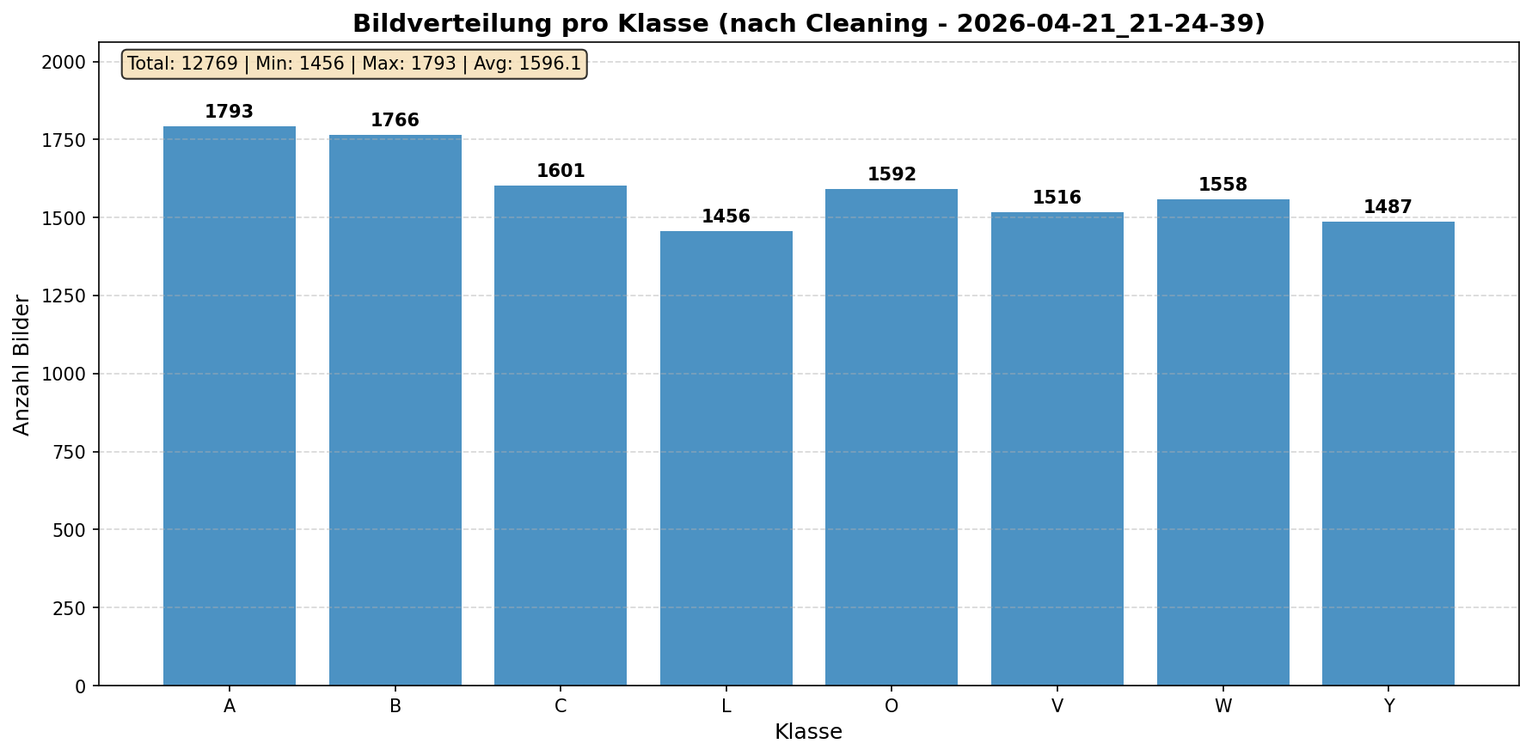
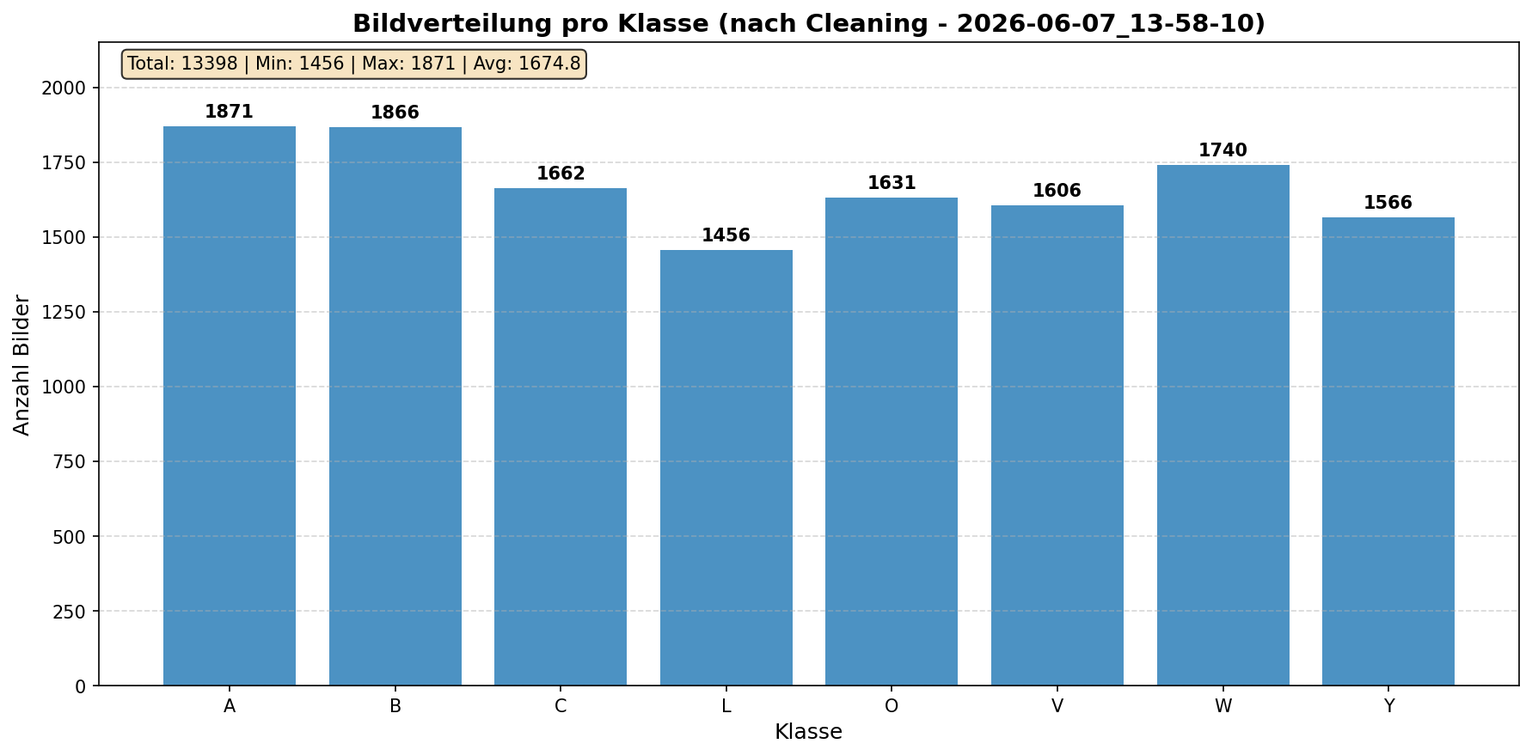
finale abgabe

diff --git a/report.md b/report.md
@@ -1,5 +1,24 @@
 # Wissenschaftlicher Projektbericht: Erkennung von Gebärdensprachen-Buchstaben mit Machine Learning
 
+## Projektdaten
+
+| Feld | Angabe |
+|---|---|
+| Modul | Machine Learning |
+| Semester | SoSe 2026 |
+| Dozent | Nicola Fanton |
+| Projekttitel | Sign Language Recognition / ASL-Alphabet-Erkennung |
+| Abgabedatum | 07.06.2026 |
+
+---
+
+## Gruppenmitglieder
+
+| Name | Matrikelnummer | Rolle im Projekt |
+|---|---:|---|
+| Ervin Omerovic | 209641 | Technische Umsetzung der Datenpipeline, Projektstruktur, Integration der Datensätze, Erweiterung der Datenbasis durch eigene Webcam-Aufnahmen, Modelltraining, Evaluation, Webcam-Anwendung, README und Bericht |
+| Delil Yilmaz | 204114 | Recherche und Auswahl geeigneter Datensätze, Unterstützung bei Datenstruktur und Datenaufbereitung, Kontrolle einzelner Skripte zur Datenaufbereitung, Prüfung von Trainingskurven und Confusion Matrix, Bewertung der Fehlklassifikationen, Berichtskontrolle |
+
 ## 1. Einleitung und Zieldefinition
 
 Die automatische Erkennung von Gebärdensprachen-Buchstaben ist ein relevantes Anwendungsfeld des maschinellen Lernens, da sie die digitale Unterstützung der Kommunikation mit Gebärdensprache ermöglichen kann. In diesem Projekt wird untersucht, wie ausgewählte statische Buchstaben der American Sign Language (ASL) mithilfe eines bildbasierten Machine-Learning-Modells erkannt werden können. Der Fokus liegt dabei auf acht ausgewählten Klassen: **A, B, C, L, V, W, O und Y**.
@@ -59,6 +78,8 @@ Das Projekt verwendet drei externe Datensätze:
 
 Aus diesen Datensätzen werden ausschließlich die acht Klassen **A, B, C, L, V, W, O und Y** verwendet. Die Auswahl beschränkt den Projektumfang bewusst, damit Training, Evaluation und Webcam-Demo innerhalb des Modulprojekts realistisch umgesetzt werden können.
 
+Zusätzlich zu den externen Datensätzen wurde die Datenbasis durch eigene Webcam-Aufnahmen erweitert. Dafür wurden pro Buchstabe ungefähr **150 bis 200 zusätzliche Bilder** aufgenommen. Diese eigenen Bilder dienen dazu, das Modell stärker an realistische Aufnahmebedingungen der späteren Webcam-Anwendung anzupassen. Während die externen Datensätze eine breite Grundlage für das Training liefern, bilden die eigenen Aufnahmen typische Bedingungen der praktischen Nutzung ab, etwa Kameraqualität, Beleuchtung, Handposition und Hintergrund.
+
 ### 3.2 Datenstruktur
 
 Die Projektstruktur trennt Rohdaten, bereinigte Daten und externe Testdaten:
@@ -82,6 +103,10 @@ Die Bereinigung erfolgt mit dem Skript `clean_dataset.py`. Dabei werden unter an
 
 Die Aufbereitung soll sicherstellen, dass das Modell nicht nur auf sehr einheitliche Trainingsbilder reagiert, sondern auch mit leichten Variationen umgehen kann.
 
+Die eigenen Webcam-Bilder wurden in die bestehende Klassenstruktur integriert und anschließend ebenfalls durch die Datenbereinigung verarbeitet. Dadurch werden diese Aufnahmen nicht separat behandelt, sondern gemeinsam mit den externen Trainingsdaten in die Pipeline aufgenommen. Der Vorteil besteht darin, dass das Modell nicht nur auf kuratierte Datensatzbilder trainiert wird, sondern auch Beispiele aus der tatsächlichen Einsatzumgebung sieht. Dies ist besonders wichtig, da bei der Live-Erkennung über die Webcam andere Bedingungen auftreten können als in den externen Datensätzen.
+
+Für die Aufnahme der eigenen Bilder wurde ein Webcam-Capture-Ansatz genutzt. Dabei wird die jeweilige Handgeste vor der Kamera gezeigt und der relevante Bildbereich als Trainingsbild gespeichert. Dieses Vorgehen eignet sich besonders, um zusätzliche Beispiele für schwierige oder häufig verwechselte Klassen aufzunehmen und dadurch die Datenbasis gezielt zu erweitern.
+
 ## 4. Beschreibung der Methodik
 
 ### 4.1 Trainingspipeline
@@ -89,12 +114,12 @@ Die Aufbereitung soll sicherstellen, dass das Modell nicht nur auf sehr einheitl
 Die ursprüngliche Pipeline wurde so angepasst, dass die Daten zunächst bereinigt und erst danach für Training und Validierung genutzt werden:
 
 ```text
-data_raw/ → clean_dataset.py → data_cleaned/ → Training und Validierung
-                                      ↓
-                              external_test/ → finale Evaluation
+externe Datensätze + eigene Webcam-Aufnahmen → data_raw/ → clean_dataset.py → data_cleaned/ → Training und Validierung
+                                                                                              ↓
+                                                                                      external_test/ → finale Evaluation
 ```
 
-Diese Struktur wurde gewählt, weil die Datenqualität ein zentraler Faktor für die spätere Modellleistung ist. Durch die vorgelagerte Bereinigung wird offensichtliches Rauschen reduziert, bevor das Modell trainiert wird.
+Diese Struktur wurde gewählt, weil die Datenqualität ein zentraler Faktor für die spätere Modellleistung ist. Durch die vorgelagerte Bereinigung wird offensichtliches Rauschen reduziert, bevor das Modell trainiert wird. Die zusätzlichen eigenen Webcam-Aufnahmen erweitern die Datenbasis um Beispiele aus der späteren Anwendungssituation und sollen dadurch die Robustheit bei der Live-Erkennung verbessern.
 
 ### 4.2 Modellwahl
 
@@ -112,6 +137,8 @@ Die wichtigsten Entscheidungen im Projekt lassen sich wie folgt begründen:
 | Datenbereinigung vor dem Training | Reduktion von Duplikaten, Unschärfe und beschädigten Dateien |
 | Externe Testdaten | Realistischere Bewertung der Generalisierungsfähigkeit |
 | Webcam-Demo | Praktische Demonstration der Anwendbarkeit des Modells |
+| Eigene Webcam-Aufnahmen | Ergänzung der externen Datensätze um realistische Beispiele aus der späteren Anwendungssituation |
+| Capture-Ansatz für eigene Bilder | Gezielte Aufnahme zusätzlicher Trainingsdaten pro Klasse, insbesondere zur Verbesserung der Praxistauglichkeit |
 
 ### 4.4 Evaluation
 
@@ -127,86 +154,112 @@ Die finale Evaluation erfolgt auf externen Testdaten, die nicht im Training verw
 
 ## 5. Ergebnisse und Erkenntnisse
 
-### 5.1 Übersicht der Evaluationsmetriken (aktuellste Logs)
+In diesem Kapitel werden die zentralen Ergebnisse des Projekts in der Reihenfolge des tatsächlichen Projektablaufs dargestellt. Zunächst wird die Datenbereinigung beschrieben, da sie die Grundlage für das anschließende Training bildet. Danach folgen Trainingsverlauf, externe Evaluation, per-Klasse-Ergebnisse und Confusion Matrix.
 
-Die finale externe Evaluation (neuester Classification Report: `logs/classification_reports/classification_report_2026-06-06_23-17-23.txt`) liefert folgende Gesamtmetriken:
+### 5.1 Datenbereinigung und Datenverteilung
 
-| Metrik | Wert |
+Vor dem Training wurde eine systematische Datenbereinigung durchgeführt. Die aktuellste dokumentierte Cleaning-Session wurde am **07.06.2026 um 13:46:49** durchgeführt. Dabei wurden insgesamt **15.095 Bilder** verarbeitet. Davon wurden **13.398 Bilder** in den bereinigten Datensatz übernommen und **1.697 Bilder** durch die Cleaning-Pipeline entfernt. Die Erfolgsquote der Bereinigung lag damit bei **88,8 %**.
+
+| Kennzahl | Wert |
 |---|---:|
-| Accuracy | 0.9257 |
-| Precision | 0.9281 |
-| Recall | 0.9257 |
-| F1-Score | 0.9259 |
-| Test-Support | 1400 Bilder |
+| Gesamt verarbeitet | 15.095 Bilder |
+| Gespeichert | 13.398 Bilder |
+| Entfernt | 1.697 Bilder |
+| Erfolgsquote | 88,8 % |
+| Blur Threshold | 40,0 |
+| Mindestgröße | 50 Pixel |
+| Deduplizierung | aktiviert |
 
-Die externe Accuracy von 0.9257 zeigt, dass das Modell nun rund 92.6 % der externen Testbilder korrekt klassifiziert. Die leicht verbesserten Werte bei Precision und F1 gegenüber der vorher dokumentierten Evaluation deuten auf eine insgesamt bessere Generalisierung auf das externe Test-Set hin.
-
-### 5.2 Trainingsverlauf (aktuelle Trainingskurven)
-
-![Trainings- und Validierungsverlauf](logs/training_curves/training_curves_2026-06-06_19-45-28.png)
-
-*Abbildung 1: Verlauf von Accuracy und Loss während des Trainings (neueste Kurve: `logs/training_curves/training_curves_2026-06-06_19-45-28.png`).*
-
-Der Trainingsverlauf zeigt eine schnelle Verbesserung in den ersten Epochen und anschließende Stabilisierung auf sehr hohem Niveau. Aus den Epoch-Metriken (`logs/training_metrics/epoch_metrics_2026-06-06_19-45-28.csv`) ergibt sich:
-
-- Maximale Validierungsgenauigkeit (best epoch): 0.9886
-- Validierungsgenauigkeit am Ende der aufgezeichneten Epochen: 0.9883
-- Trainingsgenauigkeit (letzte Epoche): ca. 0.9983
-
-Diese Zahlen zeigen ein starkes Training mit sehr hoher Trainingsgenauigkeit und ebenfalls sehr guter Validierungsleistung (höchste Val-Accuracy ≈ 98.86 %), was auf ein gut konvergiertes Modell hindeutet. Die Differenz zwischen Trainings- und Validierungswerten bleibt gering.
-
-### 5.3 Ergebnisse pro Klasse (aktuell)
-
-Aus dem neuesten Classification Report (`logs/classification_reports/classification_report_2026-06-06_23-17-23.txt`) ergeben sich die folgenden per-Klasse-Metriken (Support = 175 pro Klasse):
-
-| Klasse | Precision | Recall | F1-Score | Support |
-|---|---:|---:|---:|---:|
-| A | 0.95 | 0.90 | 0.92 | 175 |
-| B | 0.96 | 0.98 | 0.97 | 175 |
-| C | 0.96 | 0.97 | 0.97 | 175 |
-| L | 0.90 | 0.91 | 0.91 | 175 |
-| V | 0.94 | 0.89 | 0.91 | 175 |
-| W | 0.92 | 0.89 | 0.90 | 175 |
-| O | 0.96 | 0.90 | 0.93 | 175 |
-| Y | 0.83 | 0.96 | 0.89 | 175 |
-
-Die per-Klasse-Ergebnisse zeigen weiterhin, dass die Klassen B und C besonders zuverlässig erkannt werden. Interessant ist die sehr hohe Recall-Rate für Y (0.96) bei gleichzeitig niedrigerer Precision (0.83), was darauf hinweist, dass echte Y-Bilder sehr selten übersehen, aber häufiger durch andere Klassen falsch vorhergesagt werden.
-
-### 5.4 Confusion Matrix (aktuell)
-
-![Confusion Matrix der externen Evaluation](logs/confusion_matrices/confusion_matrix_2026-06-06_23-17-23.png)
-
-*Abbildung 2: Confusion Matrix der externen Evaluation (neueste: `logs/confusion_matrices/confusion_matrix_2026-06-06_23-17-23.png`).*
-
-Die Confusion Matrix bestätigt die per-Klasse-Metriken: die Diagonale ist stark ausgeprägt (hohe Trefferraten), während einige Off-Diagonal-Werte zeigen, welche Klassen häufiger verwechselt werden (z. B. leichte Verwechslungen zugunsten von Y in bestimmten Fällen).
-
-### 5.5 Datenverteilung nach Bereinigung
+Die Entfernung erfolgte auf Basis der im Cleaning-Skript definierten Qualitätskriterien. Dazu zählen insbesondere die Duplikaterkennung, die Filterung unscharfer Bilder über die Laplacian-Varianz, die Mindestgröße von 50 Pixeln sowie die Prüfung auf beschädigte oder ungeeignete Bilddateien. Da die Datenbasis zuvor zusätzlich um eigene Webcam-Aufnahmen erweitert wurde, umfasst dieser Cleaning-Lauf sowohl externe Datensatzbilder als auch selbst aufgenommene Bilder. Die verbleibenden **13.398 bereinigten Bilder** bilden die Grundlage für das anschließende Training.
 
 ![Datenverteilung nach der Bereinigung](report_assets/data_distribution.png)
 
-*Abbildung 3: Verteilung der bereinigten Bilddaten pro Klasse.*
+*Abbildung 1: Verteilung der bereinigten Bilddaten pro Klasse.*
 
-Die Datenbereinigung entfernte insgesamt 1.117 Bilder aus dem ursprünglichen Datensatz. Davon wurden 426 Bilder als Duplikate und 691 Bilder als unscharf identifiziert. Die verbleibenden Daten zeigen eine verhältnismäßig ausgeglichene Klassenverteilung und bilden die Grundlage für das Training.
+### 5.2 Trainingsverlauf
+
+Nach der Datenbereinigung wurde das Modell auf den bereinigten Trainingsdaten trainiert. Der Trainingsverlauf zeigt die Entwicklung von Accuracy und Loss über die Trainingsepochen hinweg.
+
+![Trainings- und Validierungsverlauf](report_assets/training_curves.png)
+
+*Abbildung 2: Verlauf von Accuracy und Loss während des Trainings.*
+
+Der Trainingsverlauf zeigt eine schnelle Verbesserung in den ersten Epochen und eine anschließende Stabilisierung auf hohem Niveau. Aus den aktuellen Epoch-Metriken ergeben sich folgende Werte:
+
+- Maximale Validierungsgenauigkeit: **0.9888**
+- Validierungsgenauigkeit am Ende der aufgezeichneten Epochen: **0.9877**
+- Trainingsgenauigkeit in der letzten Epoche: **0.9931**
+
+Die Kurven zeigen, dass das Modell bereits nach wenigen Epochen eine hohe Genauigkeit erreicht. Der Loss sinkt sowohl im Training als auch in der Validierung deutlich ab. Gegen Ende des Trainings bleibt die Validierungsgenauigkeit stabil, während die Trainingsgenauigkeit nur leicht höher liegt. Dies spricht für ein insgesamt stabiles Training ohne stark ausgeprägtes Overfitting.
+
+### 5.3 Übersicht der Evaluationsmetriken
+
+Nach dem Training wurde das Modell auf externen Testdaten evaluiert. Diese Testdaten wurden nicht für das Training verwendet und ermöglichen daher eine realistischere Einschätzung der Generalisierungsfähigkeit.
+
+Die finale externe Evaluation liefert folgende Gesamtmetriken:
+
+| Metrik | Wert |
+|---|---:|
+| Accuracy | 0.9179 |
+| Precision | 0.9209 |
+| Recall | 0.9179 |
+| F1-Score | 0.9181 |
+| Test-Support | 1.400 Bilder |
+
+Die externe Accuracy von **0.9179** zeigt, dass das Modell rund **91,8 %** der externen Testbilder korrekt klassifiziert. Precision, Recall und F1-Score liegen ebenfalls auf einem ähnlichen Niveau. Dadurch zeigt sich, dass das Modell insgesamt eine solide Leistung erzielt, einzelne Klassen jedoch unterschiedlich zuverlässig erkannt werden.
+
+### 5.4 Ergebnisse pro Klasse
+
+Neben den Gesamtmetriken wurden auch die einzelnen Klassen separat ausgewertet. Dadurch lässt sich erkennen, welche Gebärdensprachen-Buchstaben besonders zuverlässig erkannt werden und bei welchen Klassen häufiger Fehler auftreten.
+
+| Klasse | Precision | Recall | F1-Score | Support |
+|---|---:|---:|---:|---:|
+| A | 0.95 | 0.85 | 0.90 | 175 |
+| B | 0.94 | 0.98 | 0.96 | 175 |
+| C | 0.97 | 0.95 | 0.96 | 175 |
+| L | 0.86 | 0.89 | 0.88 | 175 |
+| V | 0.92 | 0.92 | 0.92 | 175 |
+| W | 0.93 | 0.90 | 0.92 | 175 |
+| O | 0.96 | 0.90 | 0.93 | 175 |
+| Y | 0.82 | 0.95 | 0.88 | 175 |
+
+Die per-Klasse-Ergebnisse zeigen, dass die Klassen **B** und **C** besonders zuverlässig erkannt werden. Auffällig ist die Klasse **Y**, da sie einen hohen Recall von 0.95, aber eine vergleichsweise niedrige Precision von 0.82 aufweist. Das bedeutet, dass echte Y-Bilder häufig korrekt erkannt werden, andere Klassen jedoch ebenfalls häufiger fälschlich als Y vorhergesagt werden. Auch die Klasse **L** weist mit einer Precision von 0.86 einen vergleichsweise niedrigeren Wert auf, was auf Verwechslungen mit visuell ähnlichen Handgesten hinweist.
+
+### 5.5 Confusion Matrix
+
+Zur genaueren Analyse der Fehlklassifikationen wurde eine Confusion Matrix erstellt. Sie zeigt, welche Klassen korrekt erkannt und welche Klassen miteinander verwechselt wurden.
+
+![Confusion Matrix der externen Evaluation](report_assets/confusion_matrix_external_evaluation.png)
+
+*Abbildung 3: Confusion Matrix der externen Evaluation.*
+
+Die Confusion Matrix bestätigt die per-Klasse-Metriken. Die stark ausgeprägte Diagonale zeigt, dass der Großteil der Bilder korrekt klassifiziert wurde. Gleichzeitig sind einige Fehlklassifikationen erkennbar. Besonders häufig werden **A** und **L** als **Y** klassifiziert. Zudem treten Verwechslungen zwischen **V** und **W** auf, was durch die visuelle Ähnlichkeit der Handgesten erklärbar ist. Auch **O** wird vereinzelt als **L** klassifiziert. Diese Fehlermuster zeigen, dass die Gesamtaccuracy allein nicht ausreicht, sondern durch per-Klasse-Metriken und die Confusion Matrix ergänzt werden muss.
 
 ## 6. Diskussion und Interpretation
 
 ### 6.1 Modellleistung und Generalisierung
 
-Das Modell erreicht auf den internen Validierungsdaten sehr hohe Werte, während die externe Test-Accuracy bei 0.9171 liegt. Diese Differenz zeigt, dass die externen Testdaten anspruchsvoller sind und eine realistischere Einschätzung der Generalisierungsfähigkeit liefern. Die externe Accuracy von über 91 % ist für die betrachteten acht Klassen ein gutes Ergebnis, zeigt aber auch, dass das Modell nicht fehlerfrei arbeitet.
+Das Modell erreicht auf den internen Validierungsdaten sehr hohe Werte, während die externe Test-Accuracy bei **0.9179** liegt. Diese Differenz zeigt, dass die externen Testdaten anspruchsvoller sind und eine realistischere Einschätzung der Generalisierungsfähigkeit liefern. Die externe Accuracy von rund **91,8 %** ist für die betrachteten acht Klassen ein gutes Ergebnis, zeigt aber auch, dass das Modell nicht fehlerfrei arbeitet.
+
+Die Generalisierungslücke zwischen den sehr hohen Validierungswerten und den externen Testergebnissen ist nachvollziehbar, da die externen Testdaten aus anderen Quellen stammen und sich in Beleuchtung, Bildqualität, Hintergrund oder Perspektive von den Trainingsdaten unterscheiden können. Gerade bei Handgesten können solche Domänenunterschiede die Klassifikation beeinflussen.
 
 ### 6.2 Fehlermuster
 
-Die per-Klasse-Metriken und die Confusion Matrix zeigen, dass nicht alle Klassen gleich zuverlässig erkannt werden. Besonders auffällig ist die Klasse Y mit einer niedrigeren Precision. Das deutet darauf hin, dass andere Gebärden teilweise fälschlich als Y klassifiziert werden. Bei Klasse O ist der Recall geringer, was bedeutet, dass echte O-Bilder häufiger übersehen werden.
+Die per-Klasse-Metriken und die Confusion Matrix zeigen, dass nicht alle Klassen gleich zuverlässig erkannt werden. Besonders auffällig ist die Klasse **Y** mit einer niedrigeren Precision von 0.82. Das deutet darauf hin, dass andere Gebärden teilweise fälschlich als Y klassifiziert werden. In der Confusion Matrix ist dies insbesondere bei den Fehlklassifikationen **A → Y** und **L → Y** sichtbar.
+
+Außerdem treten Verwechslungen zwischen **V** und **W** auf. Diese beiden Klassen unterscheiden sich vor allem durch die Anzahl und Stellung der geöffneten Finger. Wenn Fingerabstände, Handwinkel oder Bildschärfe ungünstig sind, können diese Unterschiede für das Modell schwerer erkennbar sein. Auch **O** wird teilweise als **L** klassifiziert, was auf visuelle Überschneidungen in der Handform oder auf Unterschiede in der Bildperspektive zurückzuführen sein kann.
 
 Diese Fehlermuster lassen sich vermutlich durch visuelle Ähnlichkeiten zwischen bestimmten Handgesten, Unterschiede in der Bildqualität und Domänenunterschiede zwischen Trainings- und Testdaten erklären.
 
 ### 6.3 Einfluss der Datenbereinigung
 
-Die Datenbereinigung hatte eine wichtige Funktion im Projekt, da sie offensichtliches Rauschen aus den Trainingsdaten entfernt hat. Die Entfernung von Duplikaten reduziert die Gefahr, dass das Modell wiederholte Bilder zu stark gewichtet. Die Entfernung unscharfer Bilder verbessert die visuelle Qualität der Trainingsdaten. Dadurch wird die Grundlage für ein stabileres und nachvollziehbareres Training geschaffen.
+Die Datenbereinigung hatte eine wichtige Funktion im Projekt, da sie offensichtliches Rauschen aus den Trainingsdaten entfernt hat. Im aktuellsten Cleaning-Lauf wurden 15.095 Bilder geprüft, 13.398 Bilder gespeichert und 1.697 Bilder aussortiert. Die Entfernung ungeeigneter Bilder reduziert die Gefahr, dass das Modell wiederholte, unscharfe oder fehlerhafte Bildmuster zu stark gewichtet. Dadurch wird die Grundlage für ein stabileres und nachvollziehbareres Training geschaffen.
 
-### 6.4 Einfluss von Transfer Learning und Data Augmentation
+### 6.4 Einfluss von Transfer Learning, Data Augmentation und eigenen Webcam-Daten
 
 Transfer Learning unterstützt das Training, da bereits gelernte visuelle Merkmale wiederverwendet werden. Dadurch kann das Modell schneller konvergieren und auch mit begrenzter Datenmenge sinnvolle Merkmale lernen. Data Augmentation erweitert die Variation der Trainingsbilder und trägt dazu bei, dass das Modell robuster gegenüber leichten Veränderungen in Beleuchtung, Position und Ausrichtung wird.
+
+Die nachträglich ergänzten eigenen Webcam-Aufnahmen erhöhen zusätzlich die Nähe zwischen Trainingsdaten und praktischer Anwendung. Dadurch werden Bedingungen berücksichtigt, die in externen Datensätzen nicht immer ausreichend abgebildet sind, zum Beispiel konkrete Webcam-Qualität, Raumbeleuchtung, Hintergrund und individuelle Handhaltung. Dies ist besonders relevant, weil das Modell nicht nur auf externen Testdaten, sondern auch in einer Live-Anwendung funktionieren soll.
 
 ### 6.5 Praxisanwendbarkeit
 
@@ -214,11 +267,11 @@ Die Webcam-Anwendung zeigt, dass das trainierte Modell nicht nur theoretisch eva
 
 ## 7. Schlussfolgerung
 
-Die Forschungsfrage kann grundsätzlich positiv beantwortet werden. Das CNN-basierte Modell klassifiziert die ausgewählten Gebärdensprachen-Buchstaben auf externen Testdaten mit einer Accuracy von 0.9171 und erreicht auch bei Precision, Recall und F1-Score gute Werte. Damit zeigt das Modell eine insgesamt zuverlässige Leistung für die acht betrachteten Klassen.
+Die Forschungsfrage kann grundsätzlich positiv beantwortet werden. Das CNN-basierte Modell klassifiziert die ausgewählten Gebärdensprachen-Buchstaben auf externen Testdaten mit einer Accuracy von **0.9179** und erreicht auch bei Precision, Recall und F1-Score solide Werte. Damit zeigt das Modell eine insgesamt zuverlässige Leistung für die acht betrachteten Klassen.
 
-Gleichzeitig zeigen die Ergebnisse, dass die Zuverlässigkeit je nach Buchstabe variiert. Besonders die per-Klasse-Metriken und die Confusion Matrix machen deutlich, dass einzelne Klassen häufiger verwechselt werden. Für eine praktische Webcam-Anwendung ist das Modell daher gut geeignet, jedoch noch abhängig von kontrollierten Bedingungen wie guter Beleuchtung und klarer Handposition.
+Gleichzeitig zeigen die Ergebnisse, dass die Zuverlässigkeit je nach Buchstabe variiert. Besonders die per-Klasse-Metriken und die Confusion Matrix machen deutlich, dass einzelne Klassen häufiger verwechselt werden. Dies betrifft vor allem visuell ähnliche Handgesten sowie Klassen, die unter bestimmten Aufnahmebedingungen schwieriger voneinander zu unterscheiden sind. Für eine praktische Webcam-Anwendung ist das Modell daher grundsätzlich geeignet, bleibt jedoch abhängig von kontrollierten Bedingungen wie guter Beleuchtung, ruhigem Hintergrund, passender Kameraperspektive und klarer Handposition.
 
-Insgesamt liefert das Projekt eine reproduzierbare und praxisnahe Umsetzung einer Gebärdensprachen-Buchstabenerkennung mit Machine Learning. Die Kombination aus Datenbereinigung, Transfer Learning, externer Evaluation und Webcam-Demo zeigt, dass der gewählte Ansatz für den Projektumfang angemessen ist.
+Insgesamt liefert das Projekt eine reproduzierbare und praxisnahe Umsetzung einer Gebärdensprachen-Buchstabenerkennung mit Machine Learning. Die Kombination aus Datenbereinigung, Transfer Learning, eigener Erweiterung der Datenbasis, externer Evaluation und Webcam-Demo zeigt, dass der gewählte Ansatz für den Projektumfang angemessen ist.
 
 ## 8. Zukünftige Arbeiten
 
@@ -227,7 +280,7 @@ Für zukünftige Arbeiten ergeben sich mehrere Erweiterungsmöglichkeiten:
 1. **Erweiterung auf das vollständige Alphabet:** Das Modell könnte auf weitere Buchstaben ausgeweitet werden.
 2. **Integration von Bewegungsgebärden:** Buchstaben wie J und Z erfordern Bewegungsinformationen und könnten mit Videodaten behandelt werden.
 3. **Bessere Handsegmentierung:** Verfahren wie MediaPipe könnten genutzt werden, um die Handregion zuverlässiger vom Hintergrund zu trennen.
-4. **Mehr reale Webcam-Daten:** Zusätzliche Aufnahmen unter verschiedenen Licht- und Hintergrundbedingungen könnten die Praxisleistung verbessern.
+4. **Mehr reale Webcam-Daten:** Die Datenbasis wurde bereits durch eigene Webcam-Aufnahmen erweitert. Zukünftig könnten weitere Aufnahmen unter noch stärker variierenden Licht-, Hintergrund- und Kamerabedingungen die Praxisleistung weiter verbessern.
 5. **Optimierung für Echtzeit:** Das Modell könnte für schnellere Inferenz oder mobile Nutzung weiter optimiert werden.
 
 ## 9. Reproduzierbarkeit und Setup
@@ -243,16 +296,19 @@ pip install -r requirements.txt
 ### 9.2 Workflow
 
 ```bash
-# 1. Daten bereinigen
+# 1. Optional: eigene Webcam-Bilder aufnehmen
+# Beispiel: python capture_dataset_images.py
+
+# 2. Daten bereinigen
 python clean_dataset.py
 
-# 2. Modell trainieren
+# 3. Modell trainieren
 python train_simple.py
 
-# 3. Modell evaluieren
+# 4. Modell evaluieren
 python evaluate.py --model models/sign_language_model.h5
 
-# 4. Echtzeit-Vorhersage starten
+# 5. Echtzeit-Vorhersage starten
 python predict_webcam.py
 ```
 
@@ -275,7 +331,42 @@ python predict_webcam.py
 - `models/`: trainiertes Modell
 - `report_assets/`: Abbildungen für den Bericht
 
-## 10. Literaturverzeichnis
+## 10. Erklärung zur Nutzung von KI
+
+Im Rahmen des Projekts wurden KI-Assistenzsysteme unterstützend eingesetzt. Die Nutzung erfolgte nicht als Ersatz für die eigenständige Bearbeitung, sondern zur Unterstützung bei Verständnisfragen, sprachlicher Überarbeitung, Strukturierung und punktueller Programmierhilfe. Die fachlichen Entscheidungen, die Auswahl der Methodik, die Durchführung der Experimente, die Bewertung der Ergebnisse und die finale Zusammenstellung des Projekts wurden von der Gruppe verantwortet.
+
+Die KI wurde insbesondere für folgende Zwecke genutzt:
+
+- Erklärung und Einordnung einzelner Machine-Learning-Konzepte, z. B. CNNs, Transfer Learning, Data Augmentation und Confusion Matrix
+- sprachliche Überarbeitung einzelner Berichtsteile und Verbesserung der wissenschaftlichen Formulierungen
+- Unterstützung bei der Strukturierung des Projektberichts und der README-Datei
+- Hilfe bei der Fehlersuche, z. B. bei Python-Umgebungen, Paketinstallationen, Git/GitHub und Modellpfaden
+- punktuelle Programmierhilfe und Kommentierung bestehender Skripte, ohne die Projektlogik vollständig automatisiert erstellen zu lassen
+- Formulierung von Prompts zur gezielten Weiterentwicklung einzelner Projektschritte
+
+Beispiele für verwendete Prompts:
+
+| Zweck | Beispielhafter Prompt |
+|---|---|
+| Erklärung von Konzepten | „Erkläre mir einfach, was eine Confusion Matrix bei unserem Klassifikationsmodell aussagt.“ |
+| Bericht überarbeiten | „Formuliere den theoretischen Hintergrund wissenschaftlicher.“ |
+| Programmierhilfe | „Prüfe das Webcam-Skript und erkläre, warum bestimmte Klassen häufig verwechselt werden.“ |
+| Reproduzierbarkeit | „Erstelle einen Prompt, damit das finale Modell mit relativen Pfaden im Repository nutzbar ist.“ |
+| README | „Aktualisiere die README auf den aktuellen Projektstand und.“ |
+
+Die KI-Ausgaben wurden geprüft, angepasst und nicht ungeprüft übernommen. Insbesondere gemessene Ergebnisse wie Accuracy, Precision, Recall, F1-Score und Confusion Matrix stammen aus den eigenen Projektläufen und wurden nicht durch KI erzeugt.
+
+## 11. Erklärung zur Arbeitsteilung in der Gruppe
+
+Die Projektarbeit wurde von Ervin Omerovic (209641) und Delil Yilmaz (204114) gemeinsam durchgeführt. Beide Gruppenmitglieder waren an der Themenfindung, der Abstimmung des Projektumfangs, der Diskussion der Ergebnisse sowie an der finalen Durchsicht des Projekts beteiligt.
+
+Ervin Omerovic übernahm schwerpunktmäßig die technische Umsetzung der Datenpipeline, die Organisation der Projektstruktur, die Integration der Datensätze, die Erweiterung der Datenbasis durch eigene Webcam-Aufnahmen, die Durchführung mehrerer Modelltrainings, die Evaluation der Ergebnisse sowie die Einbindung der Webcam-Anwendung. Zusätzlich koordinierte er die Aktualisierung des Berichts, der README und der finalen Abgabeversion des Repositorys.
+
+Delil Yilmaz unterstützte sowohl fachlich als auch technisch bei der Umsetzung des Projekts. Er wirkte bei der Recherche und Auswahl geeigneter Datensätze, der Prüfung der Projektanforderungen sowie der Vorbereitung der Datenstruktur mit. Darüber hinaus unterstützte er bei der Durchführung und Kontrolle einzelner Skripte zur Datenaufbereitung, bei der Überprüfung der erzeugten Ausgaben wie Trainingskurven und Confusion Matrix sowie bei der gemeinsamen Bewertung der Fehlklassifikationen. Zusätzlich beteiligte er sich an der inhaltlichen Kontrolle des Berichts und an der Einordnung der praktischen Nutzbarkeit der Webcam-Erkennung.
+
+Beide Gruppenmitglieder haben den finalen Projektstand, den Bericht und die Abgabeversion des Repositorys überprüft.
+
+## 12. Literaturverzeichnis
 
 Côté, P.-O., Nikanjam, A., Ahmed, N., Humeniuk, D., & Khomh, F. (2024). Data cleaning and machine learning: A systematic literature review. *Automated Software Engineering, 31*(2), 54. https://doi.org/10.1007/s10515-024-00453-w
 
@@ -287,4 +378,4 @@ Shorten, C., & Khoshgoftaar, T. M. (2019). A survey on image data augmentation f
 
 Tan, C., Sun, F., Kong, T., Zhang, W., Yang, C., & Liu, C. (2018). A survey on deep transfer learning (arXiv:1808.01974). *arXiv*. https://doi.org/10.48550/arXiv.1808.01974
 
-**Letzte Aktualisierung:** 06. Juni 2026
+**Letzte Aktualisierung:** 07. Juni 2026

diff --git a/README.md b/README.md
@@ -62,6 +62,12 @@ Hinweis: Große Datensätze und lokale Logs werden nicht im Repository mitgefüh
 
 ## Installation
 
+## Python-Interpreter auswählen
+
+Für das Projekt sollte in PyCharm die Conda-Umgebung `ml_train` als Python-Interpreter ausgewählt werden. Wichtig ist, dass die Abhängigkeiten aus `requirements.txt` in genau dieser Umgebung installiert wurden.
+
+Falls PyCharm eine andere Python-Version verwendet, kann dies unter `Settings → Project → Python Interpreter` angepasst werden. Nach der Auswahl sollte unten rechts in PyCharm `ml_train` angezeigt werden.
+
 ### 1. Repository klonen
 
 ```bash
